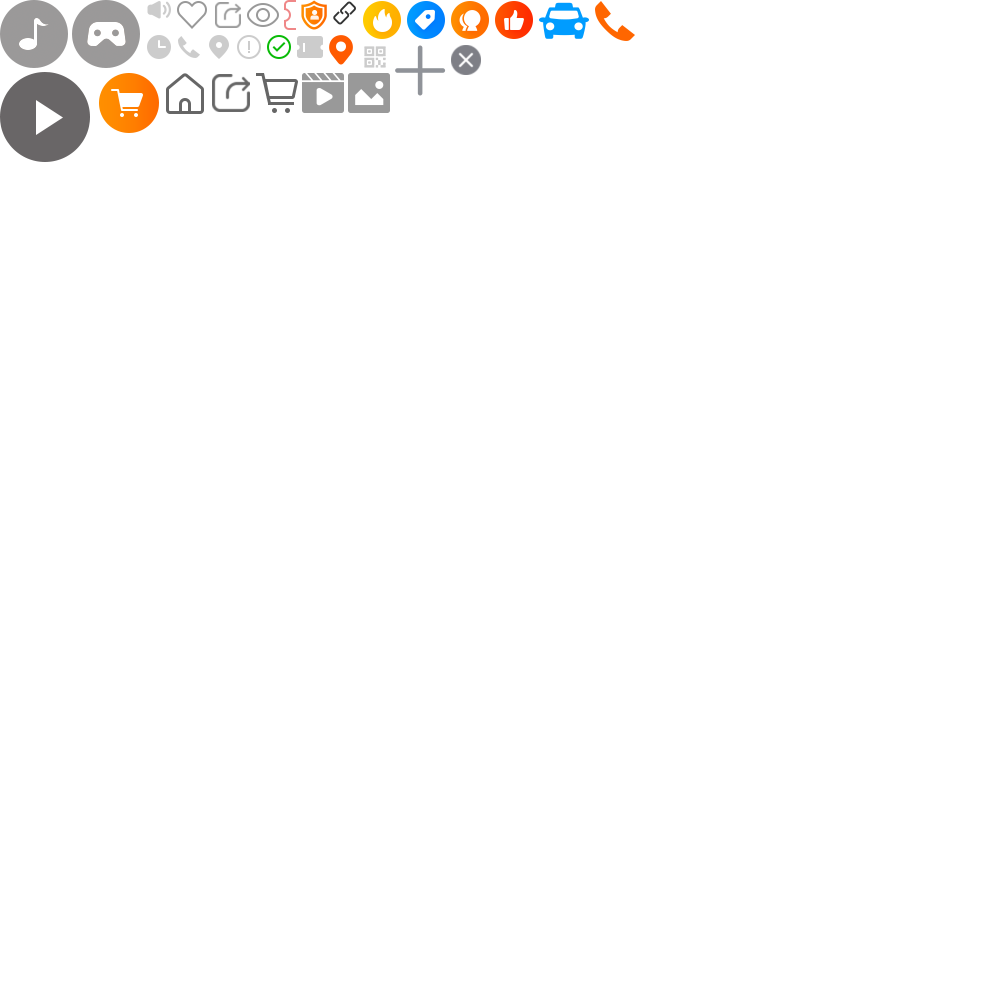
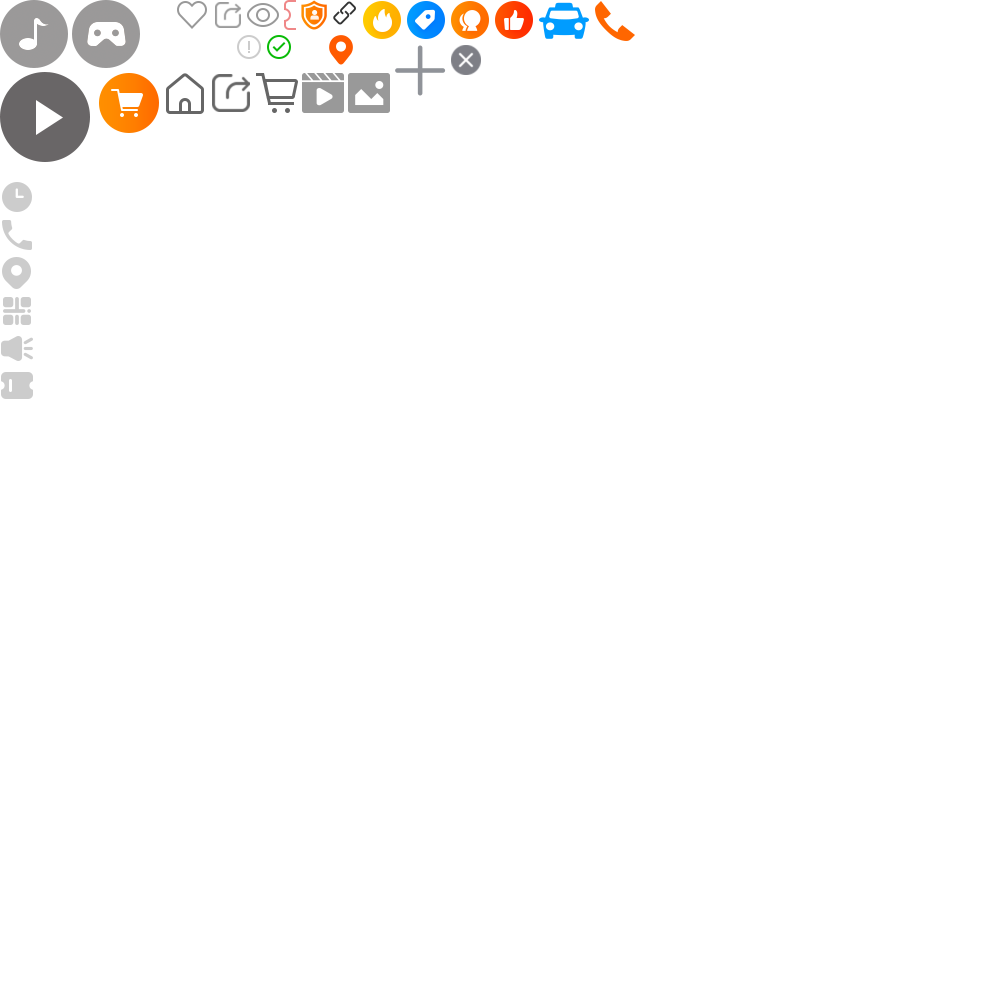
2020.1.7

diff --git a/shop/Restaurant-shop-index.html b/shop/Restaurant-shop-index.html
@@ -14,20 +14,21 @@
     <link rel="stylesheet" type="text/css" href="https://j.vzan.cc/content/city/storedetail/css/side-button.css">
     <link rel="stylesheet" type="text/css" href="css/Restaurant-shop-index.css">
     <link rel="stylesheet" type="text/css" href="css/evaluate_02.css">
-    <link rel="stylesheet" type="text/css" href="css/shop-index-pink.css">
+    <link rel="stylesheet" type="text/css" href="css/shop-index-purple.css">
     <style>
         [v-cloak]{display: none}
         .icon02{background-image: url(img/shop-index.png);background-size:50rem;background-repeat:no-repeat;}
         .icon-earn, .icon-share, .icon-coupon, .icon-arrow, .icon-location, .icon-call, .detail-footer-nav .icon, .icon-close, .number-reduce, .number-plus {
-            background-image: url(../img/tc-pic04.png);
+            background-image: url(https://j.vzan.cc/content/city/newReruit/img/tc-pic104.png);
             background-size: 50rem;
             background-repeat: no-repeat;
         }
+        .stopScroll{overflow: hidden;height:calc(100vh);}
     </style>
 </head>
 <body>
-    <div id="vue_shop" v-show="isCreated">
-        <div class="basewrap" style="padding: 0 0 7rem">
+    <div id="vue_shop" v-cloak>
+        <div class="basewrap" style="padding: 0 0 7rem" :class="{stopScroll:MoreShopInfor}">
             <!--轮播-->
             <div class="swiper-container swiper-container-horizontal swiper-container-topbanner">
                 <div class="swiper-wrapper">
@@ -75,8 +76,8 @@
                         <div class="flex ta-r"><i class="icon02" style="width: 1.7rem;background-position:-12.3rem 0;"></i>{{Infor.data.comeNumber}}人来过</div>
                     </div>
 
-                    <div class="top-line" style="margin: 0 1rem;">
-                        <ul class="albumUl">
+                    <div class="top-line" style="margin: 0 1rem;padding: 2rem 0 0;">
+                        <ul class="albumUl" style="padding: 0 0 2rem;">
                             <li v-for="album,index in Infor.albums">
                                 <img :src="album.img" v-if="index<10">
                                 <p v-else>查看相册</p>
@@ -84,18 +85,17 @@
                         </ul>
 
                         <div class="d-flex d-flex-center" style="line-height: 1.25;margin:0 0 2rem;">
-                            <div class="icon02 icon-time" style="background-position: -7.3rem -1.7rem;"></div>
+                            <div class="icon02 icon-time" style="background-position:0 -9rem;"></div>
                             <div class="flex">
                                 <p class="f14">{{Infor.businessHours.time}}</p>
-                                <p class="f12 c666" style="margin: .5rem 0 0;">{{Infor.businessHours.remark}}</p>
+                                <p class="f12 c666" style="margin: .5rem 0 0;" v-show="Infor.businessHours.remark!==''">{{Infor.businessHours.remark}}</p>
                             </div>
                         </div>
                         <div class="d-flex d-flex-center" style="line-height: 1.25;margin:0 0 2rem;">
-                            <div class="icon02 icon-time" style="background-position: -10.3rem -1.7rem;"></div>
+                            <div class="icon02 icon-time" style="background-position: 0px -12.8rem;"></div>
                             <div class="flex" style="padding:0 1.5rem 0 0;">
                                 <p class="f14">{{Infor.address}}</p>
                             </div>
-                            <div></div>
                             <div style="border-left:1px solid #E5E5E5;height:22px;"></div>
                             <a class="icon02" style="width: 2.6rem;height:2.1rem;display:block;background-position:-26.9rem 0;margin: 0 0 0 1.5rem;"></a>
                             <a class="icon02" :href="'tel:'+Infor.tel" style="width: 2.1rem;height:2.1rem;display:block;background-position:-29.7rem 0;margin: 0 0 0 2rem;"></a>
@@ -103,7 +103,7 @@
                     </div>   
                     
                     <div class="d-flex d-flex-center bg-f top-line" style="border-radius: 5px;padding: 1.5rem 0;margin: 0 1rem;border-radius: 5px;">
-                        <div class="icon02 icon-time" style="width:1.4rem;background-position: -14.8rem -1.7rem;margin: 0 1.4rem 0 0;"></div>
+                        <div class="icon02 icon-time" style="width:1.7rem;background-position: 0 -18.5rem;margin: 0 1.5rem 0 0;"></div>
                         <div class="flex" style="height: 1.5rem;overflow:hidden;padding:0 0 0 .6rem;">
                             <div class="cashCoupon" v-for="cashCoupon in cashCoupons">{{cashCoupon.content}}<i class="icon02 left"></i><i class="icon02 right"></i></div>
                         </div>
@@ -877,6 +877,9 @@
                     $('.fast-navigation-mask').fadeOut(200);
                 })
                 this.scrollTop()
+                $('.dialog-black-mask').bind("touchmove", function (e) {
+                    e.preventDefault();
+                })
 
             },
             created: function () {

diff --git a/shop/shop-index.html b/shop/shop-index.html
@@ -78,28 +78,28 @@
 
                     <div class="bg-f top-line" style="padding:2rem 0 0;margin: 0 1rem;">
                         <div class="d-flex d-flex-center" style="line-height: 1.25;margin:0 0 2rem;">
-                            <div class="icon02 icon-time" style="background-position: -7.3rem -1.7rem;"></div>
+                            <div class="icon02 icon-time" style="background-position:0 -9rem;"></div>
                             <div class="flex">
                                 <p class="f14">{{Infor.businessHours.time}}</p>
                                 <p class="f12 c666" style="margin: .5rem 0 0;">{{Infor.businessHours.remark}}</p>
                             </div>
                         </div>
                         <div class="d-flex d-flex-center" style="line-height: 1.25;margin:0 0 2rem;">
-                            <div class="icon02 icon-time" style="background-position: -8.8rem -1.7rem;"></div>
+                            <div class="icon02 icon-time" style="background-position: 0 -10.9rem;"></div>
                             <div class="flex">
                                 <p class="f14">{{Infor.tel}}</p>
                             </div>
                             <a :href="'tel:'+Infor.tel" class="little-bt">联系</a>
                         </div>
                         <div class="d-flex d-flex-center" style="line-height: 1.25;margin:0 0 2rem;">
-                            <div class="icon02 icon-time" style="background-position: -10.3rem -1.7rem;"></div>
+                            <div class="icon02 icon-time" style="background-position: 0 -12.8rem;"></div>
                             <div class="flex">
                                 <p class="f14">{{Infor.address}}</p>
                             </div>
                             <div class="little-bt">导航</div>
                         </div>   
                         <div class="d-flex d-flex-center" style="line-height: 1.25;margin:0 0 2rem;" v-show="spread==false">
-                            <div class="icon02 icon-time" style="background-position: -18.1rem -2.2rem;"></div>
+                            <div class="icon02 icon-time" style="background-position:0 -14.7rem;"></div>
                             <div class="flex">
                                 <p class="f14">更多详情以及优惠资讯可以加群了解</p>
                             </div>

diff --git a/shop/css/Restaurant-shop-index.css b/shop/css/Restaurant-shop-index.css
@@ -9,8 +9,8 @@
 }
 .icon-vr{width:3.4rem;height:3.4rem;display: block;margin: 0 auto 10px;background-position:-3.6rem 0;float: left;}
 .swiper-pagination{background: rgba(0,0,0,.4);height: 1.5rem;line-height: 1.5rem;border-radius: .8rem;color: #fff;width: auto;left: auto;padding: 0 .8rem;font-size:1.1rem;right: 1rem;bottom: 2.5rem;}
-.gonggao-cell {padding: 0 0 0 1.2rem;background: #fff;position: relative;font-size: 1.2rem;height: 2rem;line-height: 2rem;overflow: hidden;}
-.gonggao-cell .icon-notice{width: 1.3rem;height: 1rem;background-position: -7.3rem 0;margin-right: 1rem;display: block;}
+.gonggao-cell {padding: 0 0 0 1rem;background: #fff;position: relative;font-size: 1.2rem;height: 2rem;line-height: 2rem;overflow: hidden;}
+.gonggao-cell .icon-notice{width: 1.7rem;height: 1.7rem;background-position:0 -16.6rem;margin-right: 1rem;display: block;}
 .gonggao-cell marquee {line-height: 2rem;height: 100%;display: block;}
 .gonggao-cell p {line-height: 2rem;}
 .gonggao-cell marquee{line-height: 2rem;height: 100%;display: block;}
@@ -52,7 +52,7 @@
 .shopFunction li{width: 20%;padding:1.5rem 0;float: left;}
 .shopFunction li img{display: block;width:1.6rem;height:1.6rem;margin:0 auto;margin:0 auto .7rem;}
 .shopData-cell .icon02{margin:0 .8rem 0 0;vertical-align:-.4rem;display: inline-block;height: 1.5rem;}
-.icon-time{width: 1.3rem;height:1.3rem;display:block;margin: 0 1.5rem 0 0;}
+.icon-time{width: 1.7rem;height:1.7rem;display:block;margin: 0 1.5rem 0 0;}
 .little-bt{display: block;margin: 0 0 0 2rem;font-weight: bold;width: 5rem;height: 2.5rem;line-height: 2.5rem;color: #fff;font-size: 1.2rem;border-radius: 1.3rem;text-align: center;background: linear-gradient(to right,#FF8F00,#FF6A00);}
 .little-bt02{line-height: 3rem;height:3rem;width:6.5rem;border-radius:1.5rem;font-size:1.4rem;display: block;margin: 0 0 0 2rem;font-weight: bold;color: #fff;border-radius: 1.3rem;text-align: center;background: linear-gradient(to right,#FF8F00,#FF6A00);}
 .albumUl{padding: 2rem 0;overflow: hidden;overflow-x: scroll;overflow-y: hidden;white-space: nowrap;-webkit-overflow-scrolling:touch;}

diff --git a/shop/css/shop-index.css b/shop/css/shop-index.css
@@ -9,8 +9,8 @@
 }
 .icon-vr{width:3.4rem;height:3.4rem;display: block;margin: 0 auto 10px;background-position:-3.6rem 0;float: left;}
 .swiper-pagination{background: rgba(0,0,0,.4);height: 1.5rem;line-height: 1.5rem;border-radius: .8rem;color: #fff;width: auto;left: auto;padding: 0 .8rem;font-size:1.1rem;right: 1rem;bottom: 2.5rem;}
-.gonggao-cell {padding: 0 0 0 1.2rem;background: #fff;position: relative;font-size: 1.2rem;height: 2rem;line-height: 2rem;overflow: hidden;}
-.gonggao-cell .icon-notice{width: 1.3rem;height: 1rem;background-position: -7.3rem 0;margin-right: 1rem;display: block;}
+.gonggao-cell {padding: 0 0 0 1rem;background: #fff;position: relative;font-size: 1.2rem;height: 2rem;line-height: 2rem;overflow: hidden;}
+.gonggao-cell .icon-notice{width: 1.7rem;height: 1.7rem;background-position:0 -16.6rem;margin-right: 1rem;display: block;}
 .gonggao-cell marquee {line-height: 2rem;height: 100%;display: block;}
 .gonggao-cell p {line-height: 2rem;}
 .gonggao-cell marquee{line-height: 2rem;height: 100%;display: block;}
@@ -53,7 +53,7 @@
 .shopFunction li{width: 20%;padding:1.5rem 0;float: left;}
 .shopFunction li img{display: block;width:1.6rem;height:1.6rem;margin:0 auto;margin:0 auto .7rem;}
 .shopData-cell .icon02{margin:0 .8rem 0 0;vertical-align:-.4rem;display: inline-block;height: 1.5rem;}
-.icon-time{width: 1.3rem;height:1.3rem;display:block;margin: 0 1.5rem 0 0;}
+.icon-time{width: 1.7rem;height:1.7rem;display:block;margin: 0 1.5rem 0 0;}
 .little-bt{display: block;margin: 0 0 0 2rem;font-weight: bold;width: 5rem;height: 2.5rem;line-height: 2.5rem;color: #fff;font-size: 1.2rem;border-radius: 1.3rem;text-align: center;background: linear-gradient(to right,#FF8F00,#FF6A00);}
 .albumUl{-webkit-overflow-scrolling:touch;padding: 2rem 0;overflow: hidden;overflow-x: scroll;overflow-y: hidden;white-space: nowrap;}
 .albumUl li{box-sizing: border-box;width: 31.4%;margin: 0 2.9% 0 0;padding: 24% 0 0;position: relative;display: inline-block; border-radius: 5px;overflow: hidden;}
